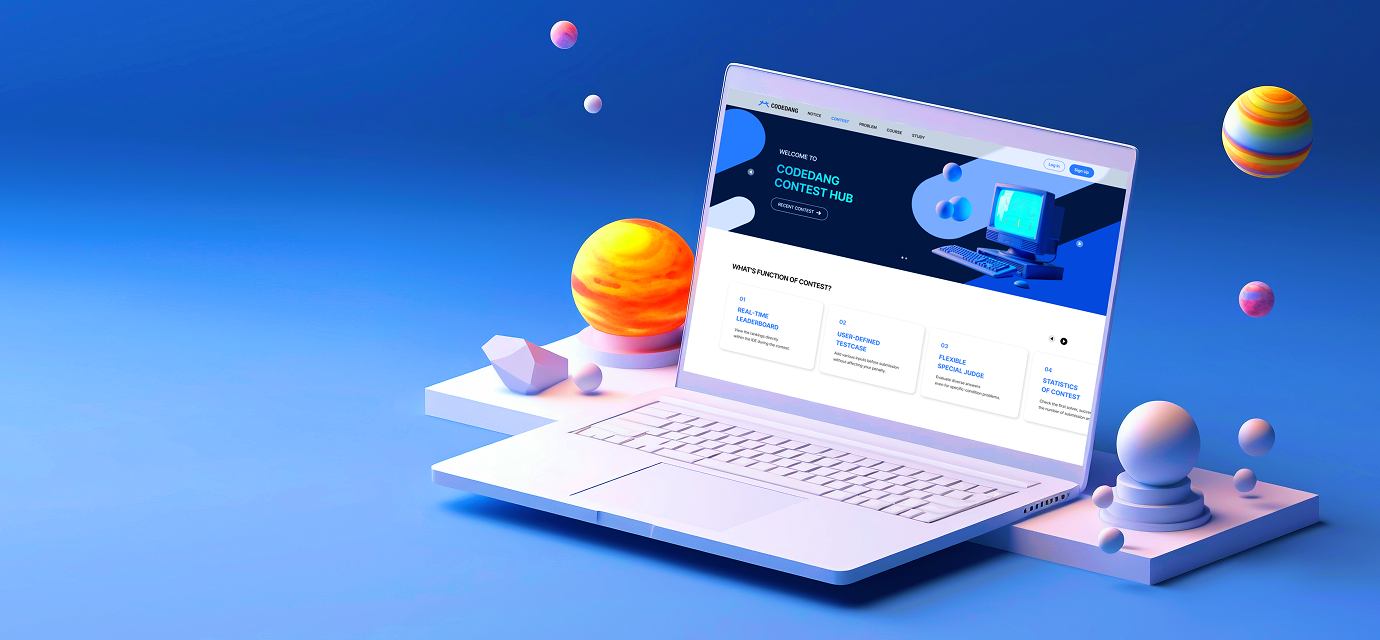
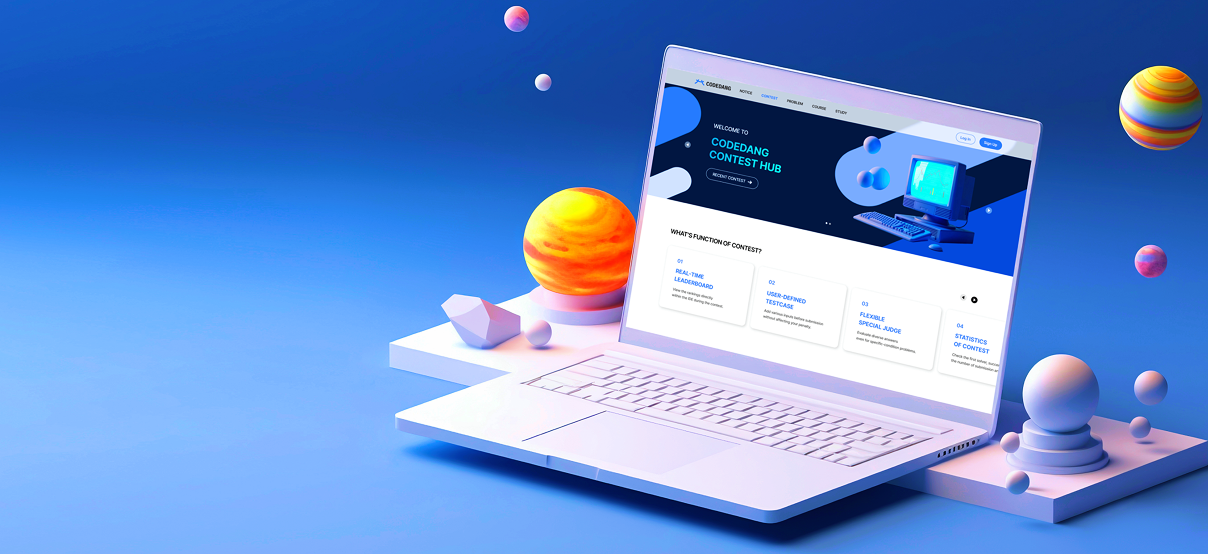
feat(fe): modify mainpage mainbanner and midbanner design

diff --git a/apps/frontend/app/(client)/(main)/_components/Carousel.tsx b/apps/frontend/app/(client)/(main)/_components/Carousel.tsx
@@ -34,7 +34,7 @@ export function Carousel({ slides }: CarouselProps) {
   }
 
   return (
-    <div className="relative my-1 h-[640px] w-full max-w-[1380px] overflow-hidden rounded-[20px] md:max-w-[1860px]">
+    <div className="relative my-1 aspect-[1208/554] w-full max-w-[1208px] overflow-hidden rounded-[20px]">
       {slides.map((slide, index) => (
         <div
           key={slide.href + slide.topTitle}
@@ -51,15 +51,15 @@ export function Carousel({ slides }: CarouselProps) {
             unoptimized
             priority
           />
-          <div className="font-pretendard absolute left-[130px] top-[150px] z-10 flex h-[344px] w-[539px] flex-col gap-[96px] tracking-[-0.03em] text-white">
+          <div className="font-pretendard absolute left-[80px] top-[126px] z-10 flex h-[344px] w-[539px] flex-col gap-[90px] tracking-[-0.03em] text-white">
             <div className="flex flex-col">
-              <h1 className="text-[60px] font-medium leading-[110%] md:text-nowrap">
+              <h1 className="text-[48px] font-medium leading-[110%] md:text-nowrap">
                 {slide.topTitle}
               </h1>
-              <h2 className="text-[60px] font-medium leading-[110%] md:text-nowrap">
+              <h2 className="text-[48px] font-medium leading-[110%] md:text-nowrap">
                 {slide.bottomTitle}
               </h2>
-              <p className="mt-5 whitespace-pre-line text-[16px] font-normal leading-[150%] tracking-[-0.03em] text-[#E5E5E5]">
+              <p className="mt-3 whitespace-pre-line text-[16px] font-normal leading-[150%] tracking-[-0.03em] text-[#E5E5E5]">
                 {slide.sub}
               </p>
             </div>
@@ -81,18 +81,18 @@ export function Carousel({ slides }: CarouselProps) {
           </div>
         </div>
       ))}
-      <div className="absolute left-[20px] top-0 z-20 flex h-[640px] w-[80px] items-center justify-center">
+      <div className="absolute left-[30px] top-0 z-20 flex h-full items-center justify-center">
         <Button
           variant="ghost"
           className="h-10 p-0 hover:bg-transparent active:bg-transparent"
           onClick={() => handleClick(facade - 1 + slides.length)}
         >
-          <div className="relative flex h-[40px] w-[40px] items-center justify-center">
+          <div className="relative flex h-full w-[40px] items-center justify-center">
             <Image src={ArrowIcon} alt="Left" fill />
           </div>
         </Button>
       </div>
-      <div className="absolute right-[20px] top-0 z-20 flex h-[640px] w-[80px] items-center justify-center">
+      <div className="absolute right-[30px] top-0 z-20 flex h-[554px] items-center justify-center">
         <Button
           variant="ghost"
           className="h-10 p-0 hover:bg-transparent active:bg-transparent"
@@ -103,7 +103,7 @@ export function Carousel({ slides }: CarouselProps) {
           </div>
         </Button>
       </div>
-      <div className="absolute right-[94px] top-[560px] z-20 flex h-[28px] w-[57px] items-center justify-center rounded-full bg-black/40 px-4 py-1 backdrop-blur-md">
+      <div className="absolute right-[115px] top-[483px] z-20 flex h-[28px] w-[57px] items-center justify-center rounded-full bg-black/40 px-4 py-1 backdrop-blur-md">
         <p className="font-pretendard flex items-center gap-1 text-sm font-medium leading-[140%] tracking-[-0.03em] text-white">
           <span>{facade + 1}</span>
           <span>/</span>

diff --git a/apps/frontend/app/(client)/(main)/_components/MiddleContestBanner.tsx b/apps/frontend/app/(client)/(main)/_components/MiddleContestBanner.tsx
@@ -7,8 +7,8 @@ import type { JSX } from 'react'
 
 export function MiddleContestBanner() {
   return (
-    <div className="relative flex h-[578px] w-full max-w-[1860px]">
-      <TextBox className={'shirink-0 z-10 h-full min-w-[38%]'} />
+    <div className="relative flex h-[518px] w-full max-w-[1208px]">
+      <TextBox className={'z-10 h-full w-[609px] shrink-0'} />
       <ImageBox className={'h-full flex-1'} />
     </div>
   )
@@ -17,13 +17,13 @@ export function MiddleContestBanner() {
 function TextBox({ className }: { className: string }) {
   return (
     <div
-      className={`flex items-center rounded-l-[20px] bg-[#182E56] pe-[140px] ps-[86px] ${className}`}
+      className={`flex items-center rounded-l-[20px] bg-[#182E56] pe-[140px] ps-[60px] ${className}`}
     >
       {/* 글자 + 버튼 */}
       <div className="text-background flex h-full max-h-[264px] w-full max-w-[446px] flex-col justify-between">
         {/* 글자 부분 */}
         <div className="flex h-full max-h-[164px] flex-col justify-between">
-          <Text className="max-h-[96px] w-fit whitespace-nowrap text-[40px] font-semibold leading-[120%]">
+          <Text className="max-h-[96px] w-fit whitespace-nowrap text-4xl font-semibold leading-[120%]">
             <p>
               {' '}
               TAKE PART IN REAL-TIME

diff --git a/apps/frontend/app/(client)/(main)/_components/ServiceCards.tsx b/apps/frontend/app/(client)/(main)/_components/ServiceCards.tsx
@@ -5,7 +5,7 @@ import Link from 'next/link'
 
 export function ServiceCards() {
   return (
-    <section className="font-pretendard flex w-full flex-col items-center gap-10">
+    <section className="font-pretendard mt-4 flex w-full flex-col items-center gap-10">
       <div className="flex w-full max-w-[1208px] flex-col items-start gap-10">
         <h2 className="text-[30px] font-semibold leading-9 tracking-[-0.9px] text-black">
           SERVICE WE PROVIDE

diff --git a/apps/frontend/app/(client)/(main)/page.tsx b/apps/frontend/app/(client)/(main)/page.tsx
@@ -9,8 +9,8 @@ import { ServiceCards } from './_components/ServiceCards'
 const slides = [
   {
     type: 'codedang',
-    topTitle: 'Your Coding Journey',
-    bottomTitle: 'Starts Here',
+    topTitle: 'YOUR CODING JOURNEY',
+    bottomTitle: 'STARTS HERE',
     sub: "Practice real problems, compete with peers.\nGrow your skills on SKKU's coding platform.",
     img: '/banners/main_banner.png',
     imgAlt: 'Codedang',
